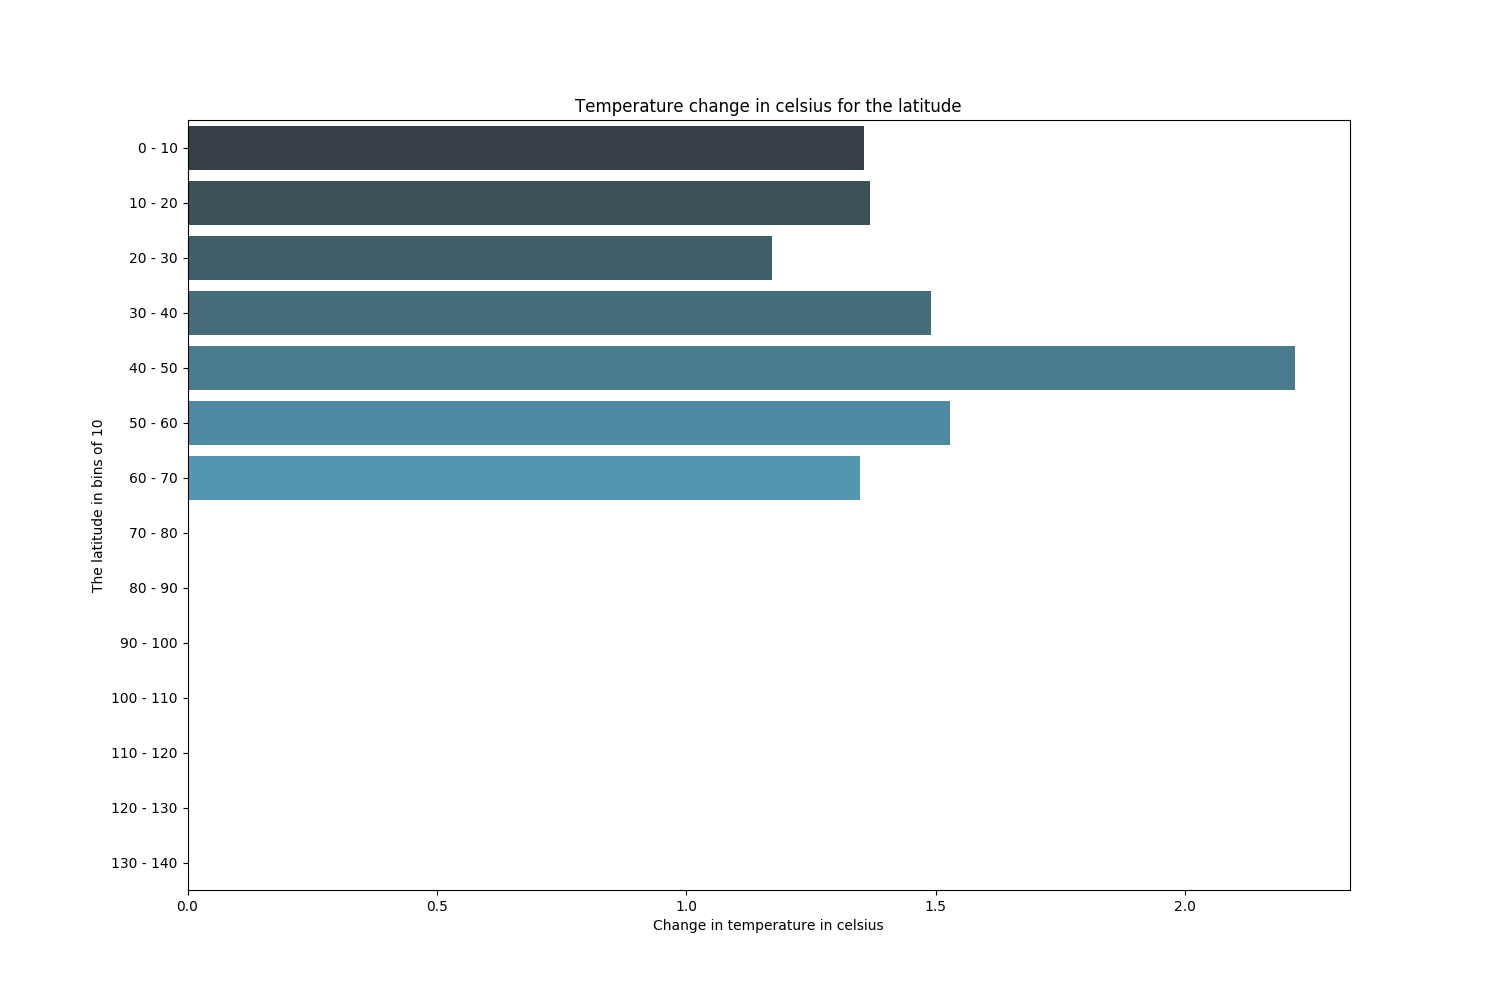
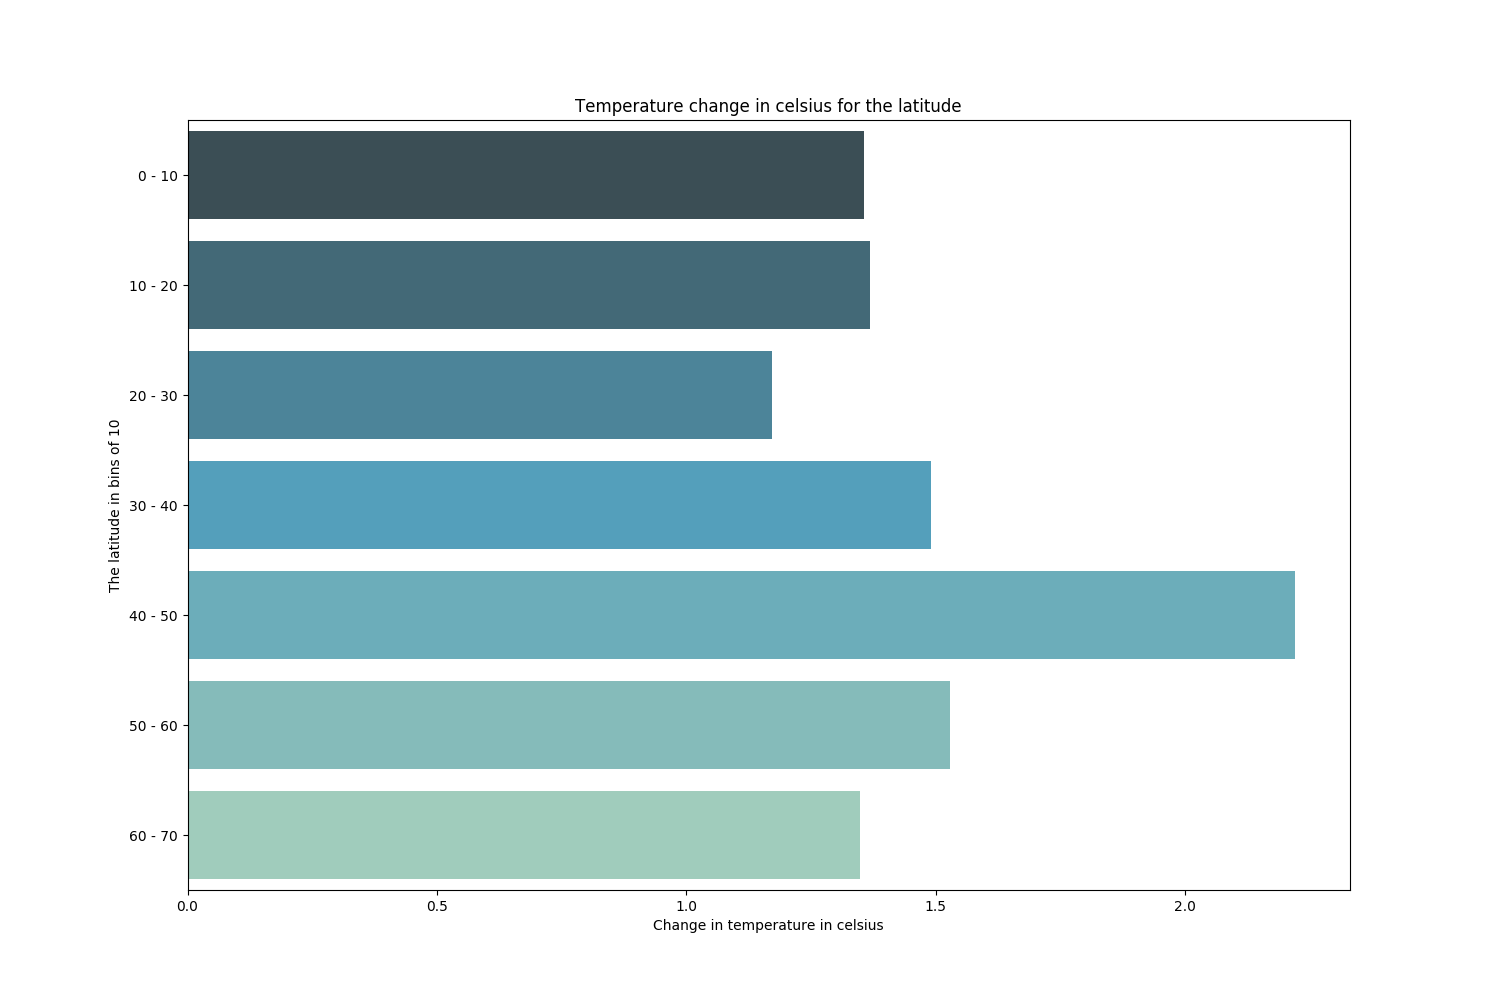
correction in heatmap

Changed region(s): [[0.0613, 0.124, 0.8893, 0.899], [0.092, 0.186, 0.1227, 0.217]]

diff --git a/main.py b/main.py
@@ -217,11 +217,13 @@ if __name__ == '__main__':
     '''
     #bins = pd.IntervalIndex.from_tuples([(i, i+9.99) for i in np.arange(0, 100, 10)])
 
-    bins = [i for i in np.arange(0, 150, 10)]
-    labels = ['{} - {}'.format(b, b+10) for b in bins[0:-1]]
+    lat_bins = [i for i in np.arange(0, 80, 10)]
+    lon_bins = [i for i in np.arange(0, 150, 10)]
+    lat_labels = ['{} - {}'.format(b, b+10) for b in lat_bins[0:-1]]
+    lon_labels = ['{} - {}'.format(b, b + 10) for b in lon_bins[0:-1]]
 
-    data['Latitude_bin'] = pd.cut(pd.to_numeric(data['Latitude'].str[:-1], errors='coerce'), bins=bins, labels=labels)
-    data['Longitude_bin'] = pd.cut(pd.to_numeric(data['Longitude'].str[:-1], errors='coerce'), bins=bins, labels=labels)
+    data['Latitude_bin'] = pd.cut(pd.to_numeric(data['Latitude'].str[:-1], errors='coerce'), bins=lat_bins, labels=lat_labels)
+    data['Longitude_bin'] = pd.cut(pd.to_numeric(data['Longitude'].str[:-1], errors='coerce'), bins=lon_bins, labels=lon_labels)
 
     agg_bin_c_lon = data.loc[(data['City'].isin(cities_in_year)) & (data['year'].isin([1850, 2012]))]\
         .groupby(['year', 'Longitude_bin']).mean()
@@ -258,8 +260,8 @@ if __name__ == '__main__':
     plt.subplots(figsize=(15, 10))
     plt.title('Temperature change in celsius for latitude and longitude')
     sns.heatmap(agg_bin_c_lat_lon)
-    plt.xlabel('The longitude in bins of 10')
-    plt.ylabel('The latitude in bins of 10')
+    plt.xlabel('The latitude in bins of 10')
+    plt.ylabel('The longitude in bins of 10')
     plt.savefig('./figures/increase_1850_2012_lat_lon_bin.png')
     plt.clf()
 
@@ -269,9 +271,7 @@ if __name__ == '__main__':
     agg_bin_c_lat_c = data.loc[(data['City'].isin(cities_in_year)) & (data['year'].isin([1850, 2012]))]\
         .groupby(['year', 'Latitude_bin', 'City']).mean().dropna()
 
-    print(agg_bin_c_lat_c)
-
-    for i in labels:
+    for i in lat_labels:
         print('Bin: {} \n Cities: {}'.format(i, agg_bin_c_lat_c.loc[agg_bin_c_lat_c.index.get_level_values(level = 'Latitude_bin') == i]))
 
     agg_bin_c_lat_c = agg_bin_c_lat_c.loc[2012, 'AverageTemperature'] - agg_bin_c_lat_c.loc[1850, 'AverageTemperature']
@@ -290,9 +290,8 @@ if __name__ == '__main__':
     agg_bin_c_lon_c = data.loc[(data['City'].isin(cities_in_year)) & (data['year'].isin([1850, 2012]))] \
         .groupby(['year', 'Longitude_bin', 'City']).mean().dropna()
 
-    for i in labels:
+    for i in lon_labels:
         print('Bin: {} \n Cities: {}'.format(i, agg_bin_c_lon_c.loc[agg_bin_c_lon_c.index.get_level_values(level = 'Longitude_bin') == i]))
-
 
     agg_bin_c_lon_c = agg_bin_c_lon_c.loc[2012, 'AverageTemperature'] - agg_bin_c_lon_c.loc[1850, 'AverageTemperature']
     agg_bin_c_lon_c = agg_bin_c_lon_c.dropna()
